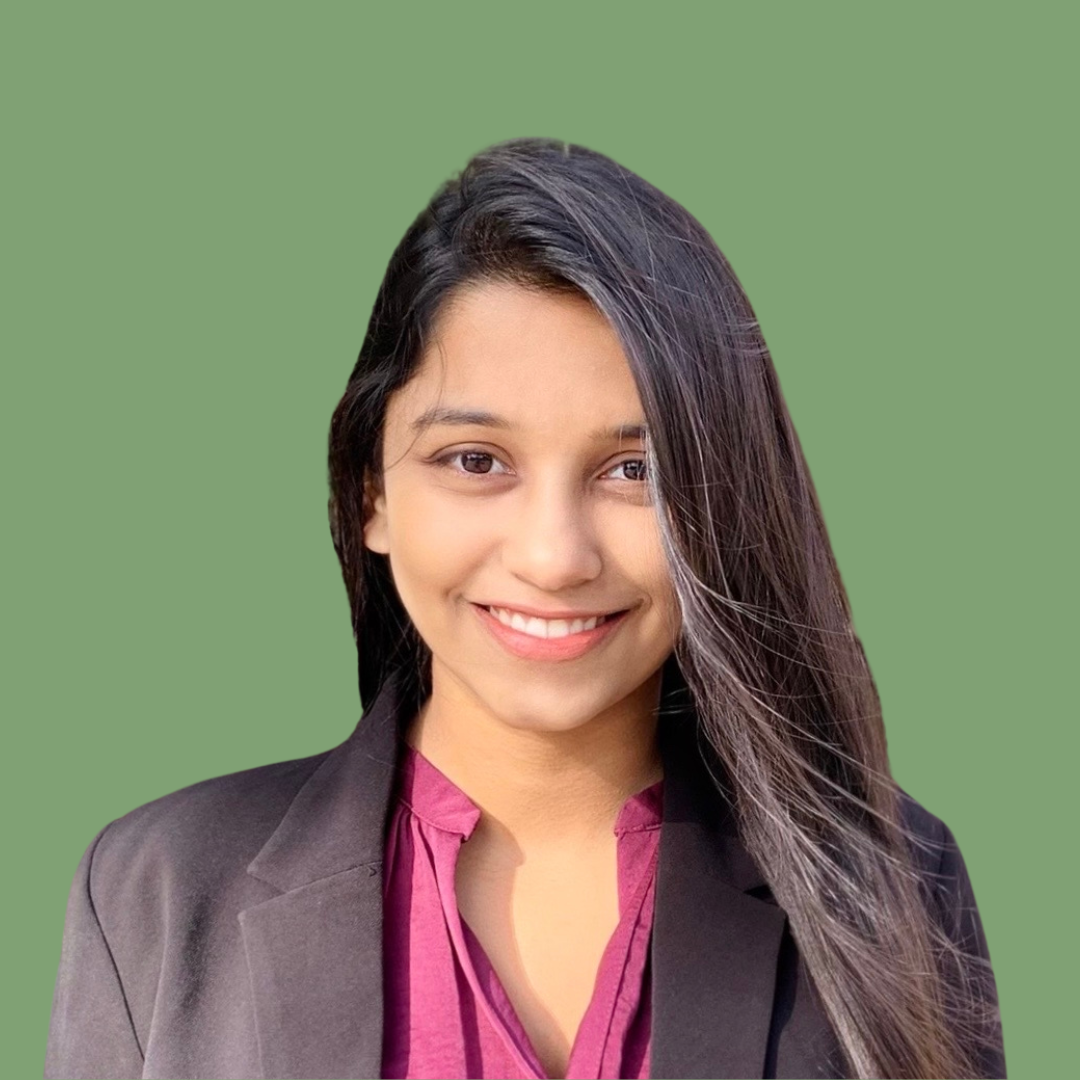
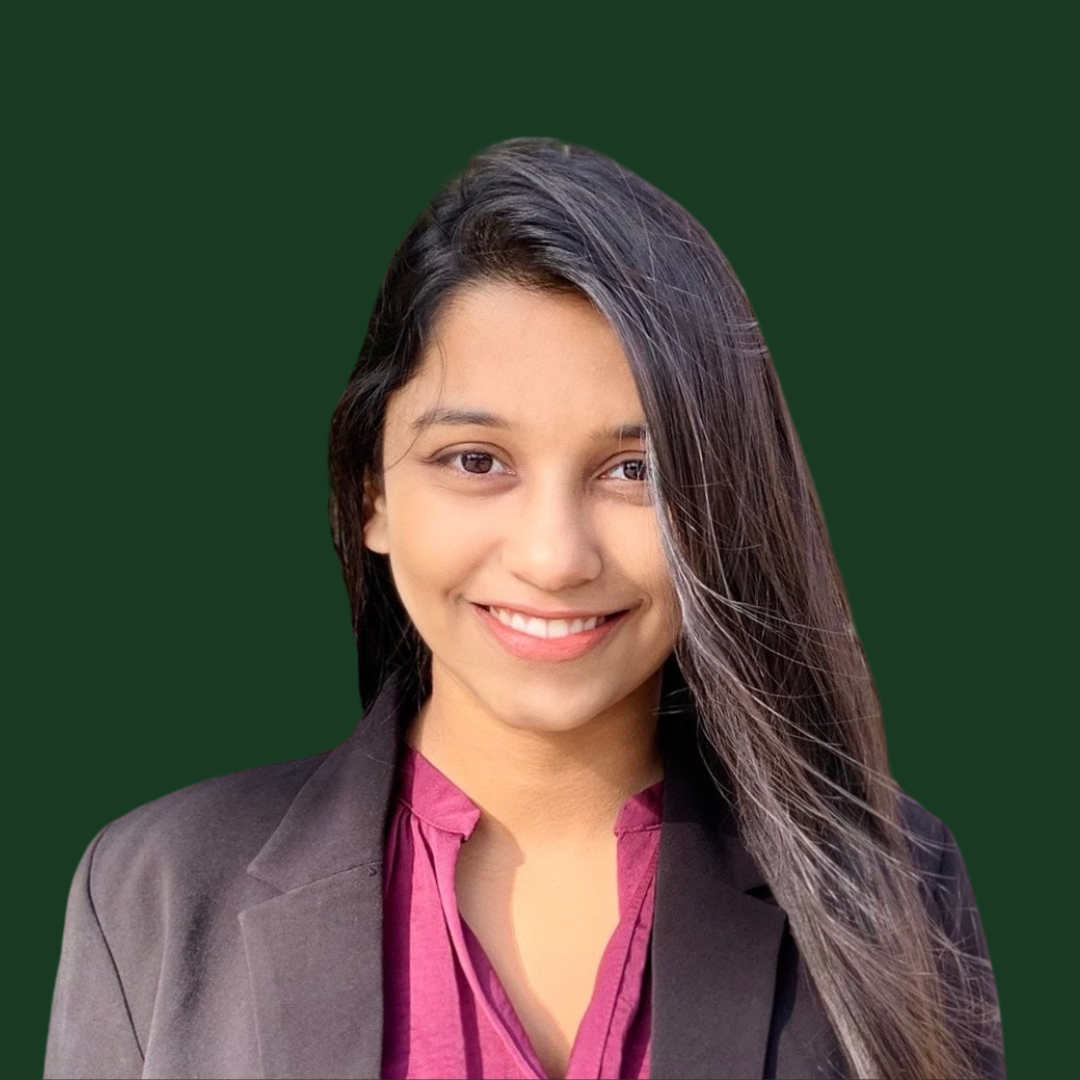
Update speaker photos

diff --git a/app/(frontend)/renaissance/speakers/page.tsx b/app/(frontend)/renaissance/speakers/page.tsx
@@ -110,15 +110,15 @@ export default function RenaissanceSpeakers() {
               <div
                 className={cn(
                   'flex flex-col justify-end p-6 md:p-8 rounded-md [grid-area:speaker-info]',
-                  i < 4 ? 'bg-renaissance-light' : 'bg-renaissance-dark',
+                  i < 4 ? 'bg-renaissance-dark' : 'bg-renaissance-light',
                 )}
               >
                 <p
                   className={cn(
                     'text-xl leading-none font-renaissance',
                     i < 4
-                      ? 'text-renaissance-dark/85'
-                      : 'text-renaissance-light/85',
+                      ? 'text-renaissance-light/85'
+                      : 'text-renaissance-dark/85',
                   )}
                 >
                   {s.headline}
@@ -126,7 +126,7 @@ export default function RenaissanceSpeakers() {
                 <h2
                   className={cn(
                     'mt-2 text-3xl whitespace-nowrap',
-                    i < 4 ? 'text-renaissance-dark' : 'text-renaissance-light',
+                    i < 4 ? 'text-renaissance-light' : 'text-renaissance-dark',
                   )}
                 >
                   <span className="text-4xl font-bold whitespace-normal">
